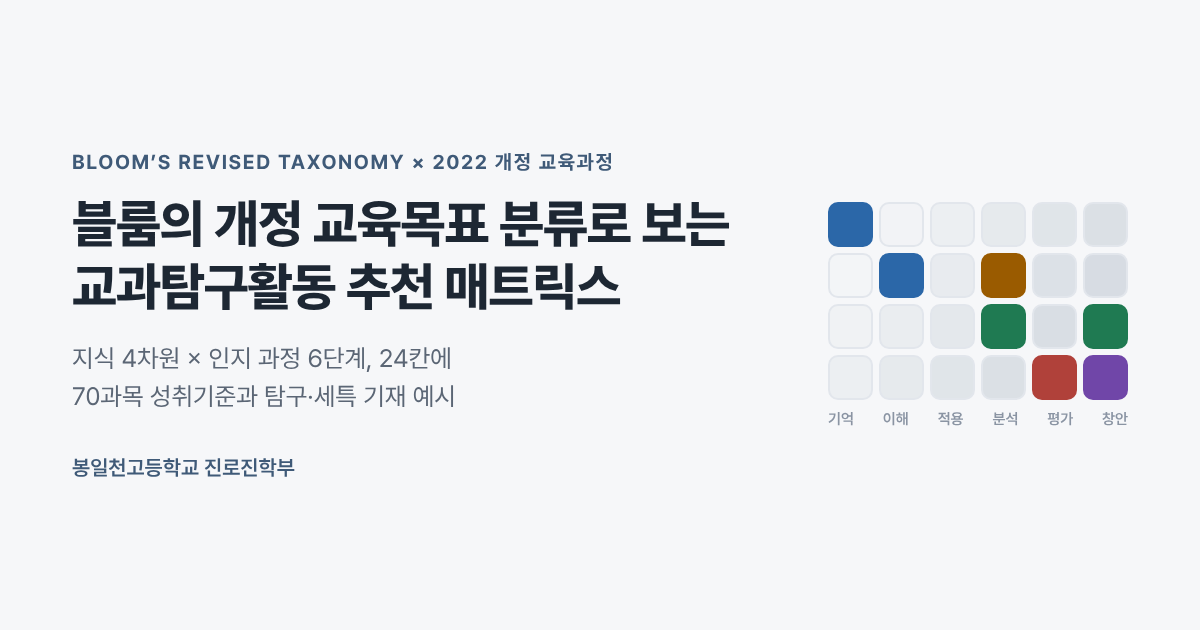
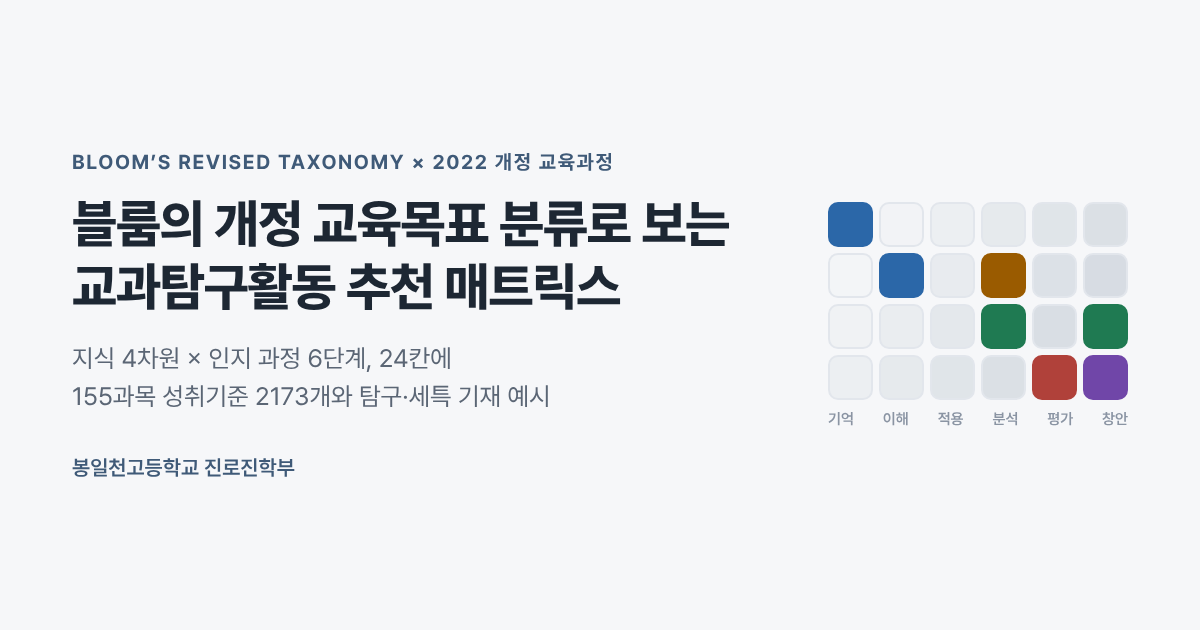
링크 미리보기 이미지(og.png)를 155과목·성취기준 2173개로 고침
Claude-Session: https://claude.ai/code/session_01LjZeYh4qTVU2d9qb6Q9jXs

Changed region(s): [[0.0617, 0.6032, 0.4625, 0.6635]]

diff --git a/tools/og.html b/tools/og.html
@@ -15,7 +15,7 @@ p{font-size:25px;line-height:1.5;color:#5b6675;margin:0}
 </style></head><body>
 <div><div class="eyebrow">BLOOM’S REVISED TAXONOMY × 2022 개정 교육과정</div>
 <h1><span style="white-space:nowrap">블룸의 개정 교육목표 분류로 보는</span><br><span style="white-space:nowrap">교과탐구활동 추천 매트릭스</span></h1>
-<p>지식 4차원 × 인지 과정 6단계, 24칸에<br>70과목 성취기준과 탐구·세특 기재 예시</p>
+<p>지식 4차원 × 인지 과정 6단계, 24칸에<br>155과목 성취기준 2173개와 탐구·세특 기재 예시</p>
 <div class="by">봉일천고등학교 진로진학부</div></div>
 <div><div class="grid" id="g"></div><div class="ax"><span>기억</span><span>이해</span><span>적용</span><span>분석</span><span>평가</span><span>창안</span></div></div>
 <script>
